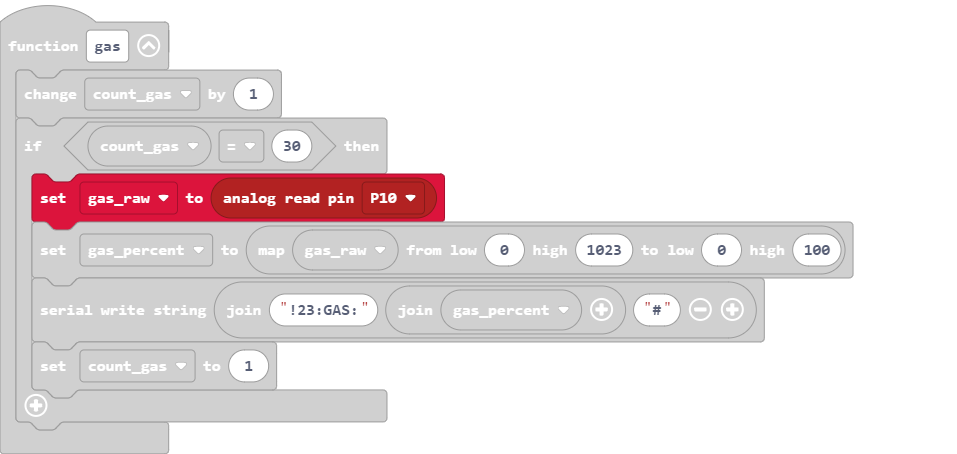
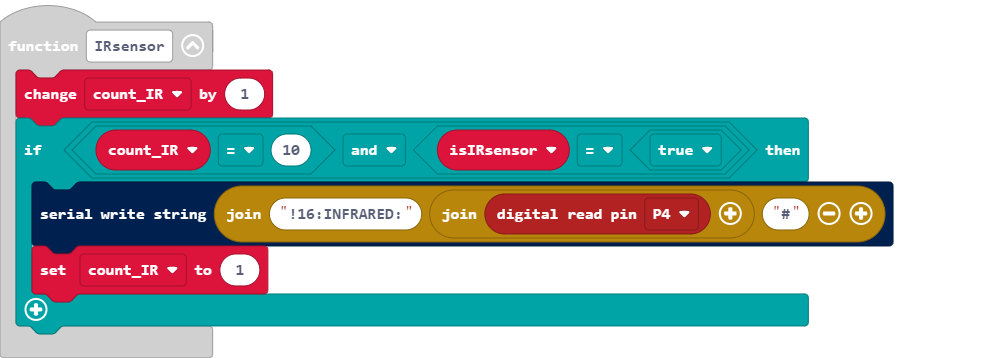
Update main.blocks, main.ts

diff --git a/main.ts b/main.ts
@@ -17,8 +17,10 @@ function gas () {
     }
 }
 function IRsensor () {
-    if (isIRsensor == true) {
+    count_IR += 1
+    if (count_IR == 10 && isIRsensor == true) {
         serial.writeString("!16:INFRARED:" + ("" + pins.digitalReadPin(DigitalPin.P4)) + "#")
+        count_IR = 1
     }
 }
 serial.onDataReceived(serial.delimiters(Delimiters.Hash), function () {
@@ -36,6 +38,7 @@ serial.onDataReceived(serial.delimiters(Delimiters.Hash), function () {
 let temp = ""
 let gas_percent = 0
 let gas_raw = 0
+let count_IR = 0
 let count_gas = 0
 let count_DHT11 = 0
 let isIRsensor = false
@@ -43,7 +46,7 @@ led.enable(false)
 isIRsensor = true
 count_DHT11 = 1
 count_gas = 1
-let count_IR = 1
+count_IR = 1
 basic.forever(function () {
     DHT11()
     gas()
